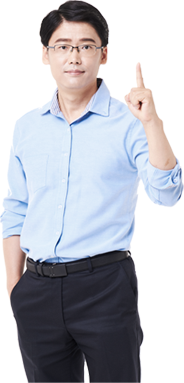
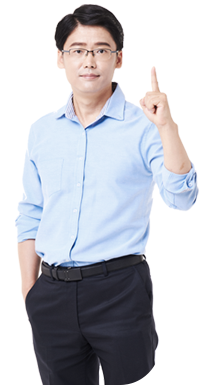
메인 강사 리스트 수정

diff --git a/resource/css/component.css b/resource/css/component.css
@@ -304,19 +304,19 @@ ul.bul-dot > li { color:#454545; margin-top:8px; padding-left:16px; font-size:18
 .main-teacher-list { display:flex; margin-top:15px; justify-content:space-between; align-items:stretch; flex-wrap:wrap; }
 .main-teacher-list:after { display:block; clear:both; content:""; }
 .main-teacher-list > li { flex:1 1 25%; width:25%; margin-top:30px; padding-right:35px; }
-.main-teacher-list > li > a { height:100%; position:relative; display:block; background:linear-gradient(to top, #b177f3 0%, #7c8af0 100%); padding:35px 100px 0 35px; border-radius:40px 0 40px 0; overflow:hidden; border:4px solid transparent; }
+.main-teacher-list > li > a { height:100%; position:relative; display:block; background:linear-gradient(to top, #b177f3 0%, #7c8af0 100%); padding:35px 15px 0 35px; border-radius:40px 0 40px 0; border:4px solid transparent; }
 .main-teacher-list > li > a:after { position:absolute; bottom:38px; left:30px; display:block; width:65px; height:65px; border-radius:50%; background:url('../img/btn_teacher_link.png') center center/65px auto no-repeat #6957d0; content:""; transition:transform ease-in .2s; }
 .main-teacher-list > li > a:hover:after { transform:translateX(5px); }
 .main-teacher-list > li > a:before { z-index:0; position:absolute; top:0; left:0; right:0; bottom:0; background:#f4f7fe; display:block; content:""; display:block; border-radius:36px 0 36px 0; }
-.main-teacher-list > li img { position:absolute; bottom:0; right:0; width:130px; height:auto; }
+.main-teacher-list > li img { position:absolute; bottom:0; right:-28px; width:150px; height:auto; }
 .main-teacher-list > li .inner { z-index:1; position:relative; width:100%; height:100%; padding-bottom:125px; }
 .main-teacher-list .header { font-weight:700; }
 .main-teacher-list .header .class { margin-bottom:12px; color:#6957d0; }
 .main-teacher-list .header .class span { border-bottom:2px solid #6957d0; padding-bottom:4px; }
-.main-teacher-list .header .name { display:block; font-size:32px; color:#141f82; font-weight: 400;}
+.main-teacher-list .header .name { display:block; font-size:32px; color:#141f82; font-weight: 400; word-break:keep-all; }
 .main-teacher-list .header .name strong { font-weight:700; }
-.main-teacher-list .header .desc { display:block; margin-top:5px; font-size:20px; color:#6957d0; word-break:keep-all; }
-.main-teacher-list .career { z-index:2; position:relative; margin-top:12px; font-size:16px; color:#141f82; }
+.main-teacher-list .header .desc { display:block; margin-top:5px; margin-right:90px; font-size:20px; color:#6957d0; word-break:keep-all; }
+.main-teacher-list .career { z-index:2; position:relative; margin-top:12px; margin-right:90px; font-size:16px; color:#141f82; }
 .main-teacher-list .career li { margin-top:2px; }
 
 .slider-teacher { margin-top:55px; }

diff --git a/resource/css/component_resp.css b/resource/css/component_resp.css
@@ -135,11 +135,12 @@
 	.main-teacher-list { margin-left:25px; margin-right:25px; }
 	.main-teacher .tab-btns button { width:100%; }
 	.main-teacher-list > li { flex-basis:50%; }
-	.main-teacher-list > li img { z-index:1; flex:0 0 auto; position:relative; right:auto; bottom:auto; float:right; width:130px; }
-	.main-teacher-list > li > a { display:flex; align-items:flex-end; justify-content:space-between; padding:25px 0 0 25px; overflow:hidden; }
+	.main-teacher-list > li img { width:130px; right:-20px; }
+	.main-teacher-list > li > a { display:flex; align-items:flex-end; justify-content:space-between; padding:25px 0 0 25px; }
 	.main-teacher-list > li .inner { flex:1 1 auto; width:calc(100% - 100px); padding-bottom:50px; }
 	.main-teacher-list .header .name { font-size:26px; }
-	.main-teacher-list .header .desc { font-size:16px; }
+	.main-teacher-list .header .desc { font-size:16px; margin-right:110px; }
+	.main-teacher-list .career { margin-right:110px; }
 	.main-teacher-list > li > a:after { zoom:.8; bottom:25px; }
 	.main-teacher-list > li .inner { padding-bottom:80px }
 
